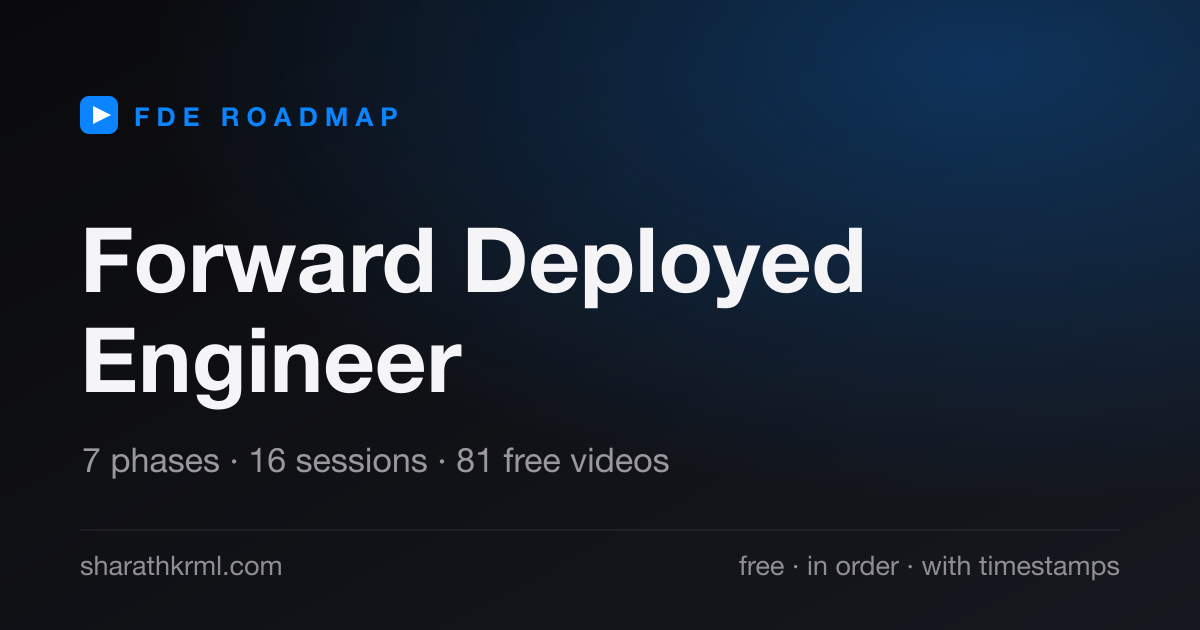
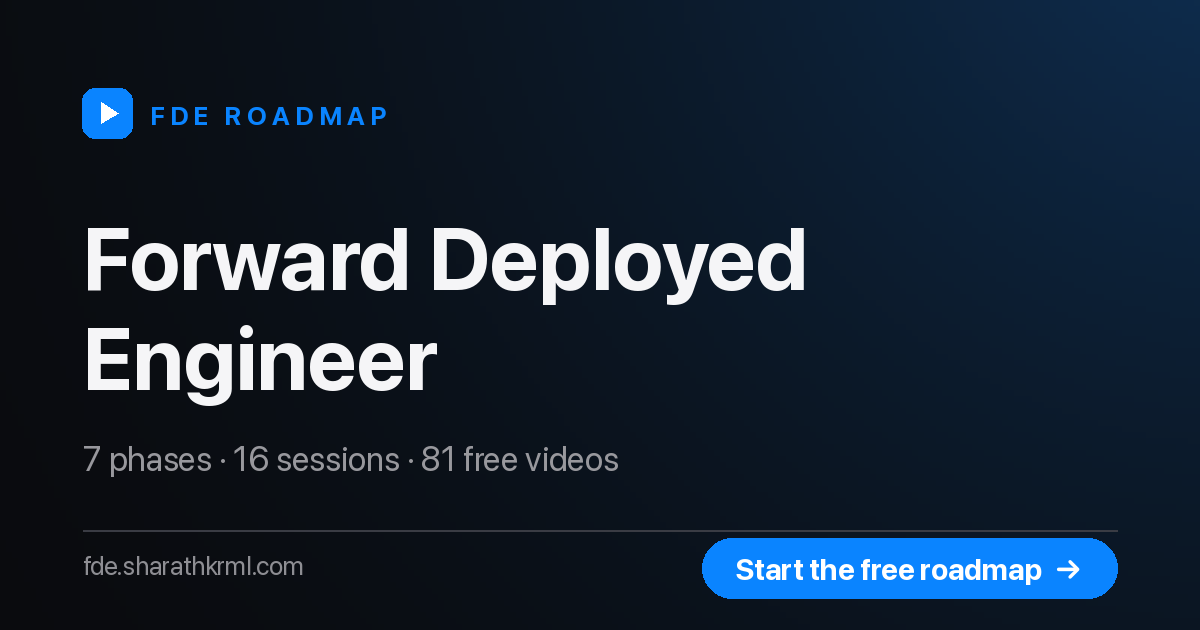
feat: update HTML title and meta description for improved clarity and SEO

diff --git a/index.html b/index.html
@@ -23,10 +23,10 @@
       })(window, document, "clarity", "script", "ynqel3i93h");
     </script>
 
-    <title>FDE Roadmap — learn Forward Deployed Engineering, video-first</title>
+    <title>Free FDE Roadmap — Learn Forward Deployed Engineering</title>
     <meta
       name="description"
-      content="A free, video-first roadmap from beginner to advanced: 7 phases, 16 sessions, 81 videos with clickable timestamps — LLM engineering, RAG, agents, evals, deployment, and the customer-facing skills that make an FDE."
+      content="Free, video-first FDE roadmap: 7 phases, 16 sessions, 81 videos with clickable timestamps — LLM engineering, RAG, agents, evals, and deployment."
     />
     <meta
       name="keywords"
